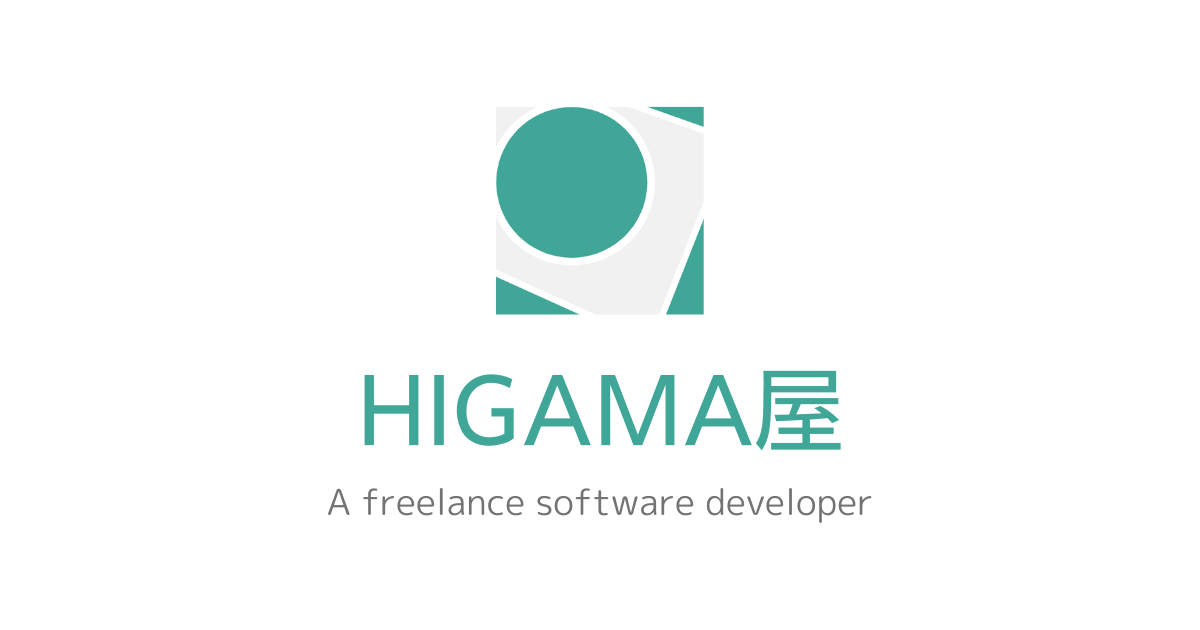
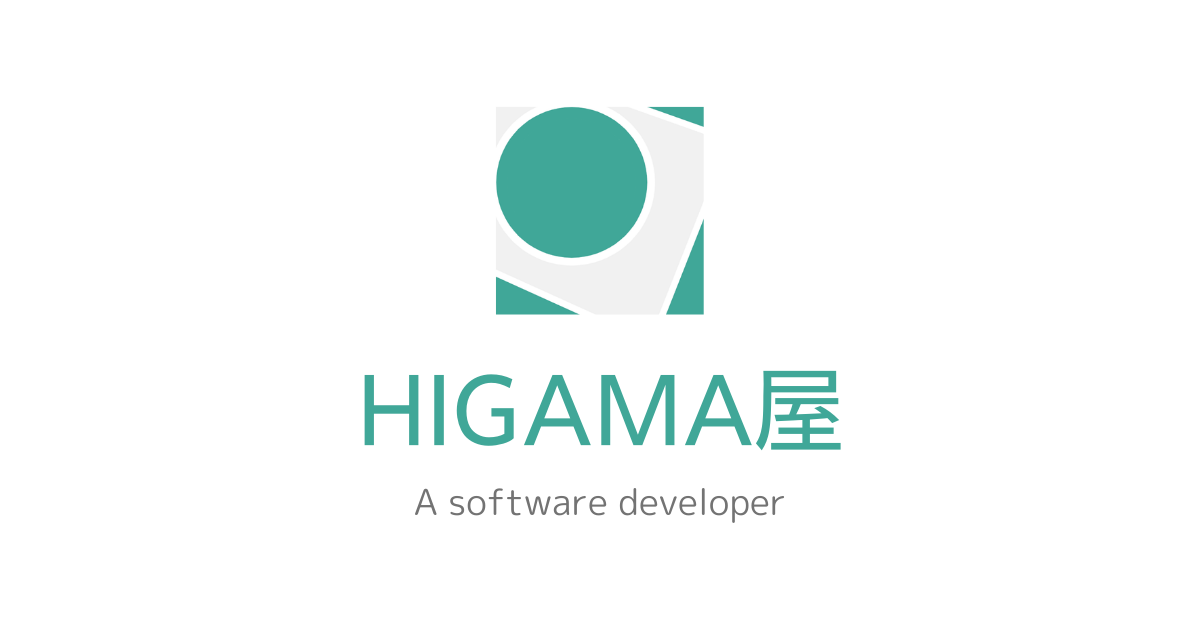
remove 'freelance'

Changed region(s): [[0.2775, 0.7841, 0.74, 0.8444]]

diff --git a/docs/index.html b/docs/index.html
@@ -11,8 +11,7 @@
   <link rel="stylesheet" href="assets/css/style.min.css" />
 
   <title>My Resume - HIGAMA屋</title>
-  <meta name="description"
-    content="フリーランスのソフトウェア開発者 Mitsunobu Yoneda のレジュメサイトです。私のことを手軽に知っていただくために、経歴やスキルを簡潔にまとめました。" />
+  <meta name="description" content="ソフトウェア開発者 Mitsunobu Yoneda のレジュメサイトです。私のことを手軽に知っていただくために、経歴やスキルを簡潔にまとめました。" />
   <link rel="shortcut icon" href="assets/images/logo_192x192.png" type="image/png" />
   <link rel="apple-touch-icon" href="assets/images/logo_192x192.png" type="image/png" />
 
@@ -21,7 +20,7 @@
   <meta property="og:image" content="https://about-me.higamaya.com/assets/images/icatch_1200x630.png" />
   <meta property="og:url" content="https://about-me.higamaya.com/" />
   <meta property="og:description"
-    content="フリーランスのソフトウェア開発者 Mitsunobu Yoneda のレジュメサイトです。私のことを手軽に知っていただくために、経歴やスキルを簡潔にまとめました。" />
+    content="ソフトウェア開発者 Mitsunobu Yoneda のレジュメサイトです。私のことを手軽に知っていただくために、経歴やスキルを簡潔にまとめました。" />
   <meta property="og:locale" content="ja_JP" />
   <meta property="og:site_name" content="HIGAMA屋" />
 
@@ -76,7 +75,7 @@
         <h1 id="index-banner-name" class="header center index-banner-block">HIGAMA屋</h1>
         <div class="row index-banner-block">
           <div class="col s12 center">
-            <span id="index-banner-description" class="light">A freelance software developer</span>
+            <span id="index-banner-description" class="light">A software developer</span>
           </div>
         </div>
         <div class="row index-banner-block">
@@ -129,7 +128,7 @@
               <p>
                 はじめまして！
                 Mitsunobu Yoneda と申します。
-                フリーランスのソフトウェア開発者として活動していくうえで、自分のことを手軽に知っていただきたいと思い、本サイトを制作しました。
+                ソフトウェア開発者として活動していくうえで、自分のことを手軽に知っていただきたいと思い、本サイトを制作しました。
                 数分ほどお時間を頂戴いたしますが、最後までご覧いただければ幸いです。
               </p>
             </div>

diff --git a/src/index.html b/src/index.html
@@ -11,8 +11,7 @@
   <link rel="stylesheet" href="assets/css/style.css" />
 
   <title>My Resume - HIGAMA屋</title>
-  <meta name="description"
-    content="フリーランスのソフトウェア開発者 Mitsunobu Yoneda のレジュメサイトです。私のことを手軽に知っていただくために、経歴やスキルを簡潔にまとめました。" />
+  <meta name="description" content="ソフトウェア開発者 Mitsunobu Yoneda のレジュメサイトです。私のことを手軽に知っていただくために、経歴やスキルを簡潔にまとめました。" />
   <link rel="shortcut icon" href="assets/images/logo_192x192.png" type="image/png" />
   <link rel="apple-touch-icon" href="assets/images/logo_192x192.png" type="image/png" />
 
@@ -21,7 +20,7 @@
   <meta property="og:image" content="https://about-me.higamaya.com/assets/images/icatch_1200x630.png" />
   <meta property="og:url" content="https://about-me.higamaya.com/" />
   <meta property="og:description"
-    content="フリーランスのソフトウェア開発者 Mitsunobu Yoneda のレジュメサイトです。私のことを手軽に知っていただくために、経歴やスキルを簡潔にまとめました。" />
+    content="ソフトウェア開発者 Mitsunobu Yoneda のレジュメサイトです。私のことを手軽に知っていただくために、経歴やスキルを簡潔にまとめました。" />
   <meta property="og:locale" content="ja_JP" />
   <meta property="og:site_name" content="HIGAMA屋" />
 
@@ -76,7 +75,7 @@
         <h1 id="index-banner-name" class="header center index-banner-block">HIGAMA屋</h1>
         <div class="row index-banner-block">
           <div class="col s12 center">
-            <span id="index-banner-description" class="light">A freelance software developer</span>
+            <span id="index-banner-description" class="light">A software developer</span>
           </div>
         </div>
         <div class="row index-banner-block">
@@ -129,7 +128,7 @@
               <p>
                 はじめまして！
                 Mitsunobu Yoneda と申します。
-                フリーランスのソフトウェア開発者として活動していくうえで、自分のことを手軽に知っていただきたいと思い、本サイトを制作しました。
+                ソフトウェア開発者として活動していくうえで、自分のことを手軽に知っていただきたいと思い、本サイトを制作しました。
                 数分ほどお時間を頂戴いたしますが、最後までご覧いただければ幸いです。
               </p>
             </div>
